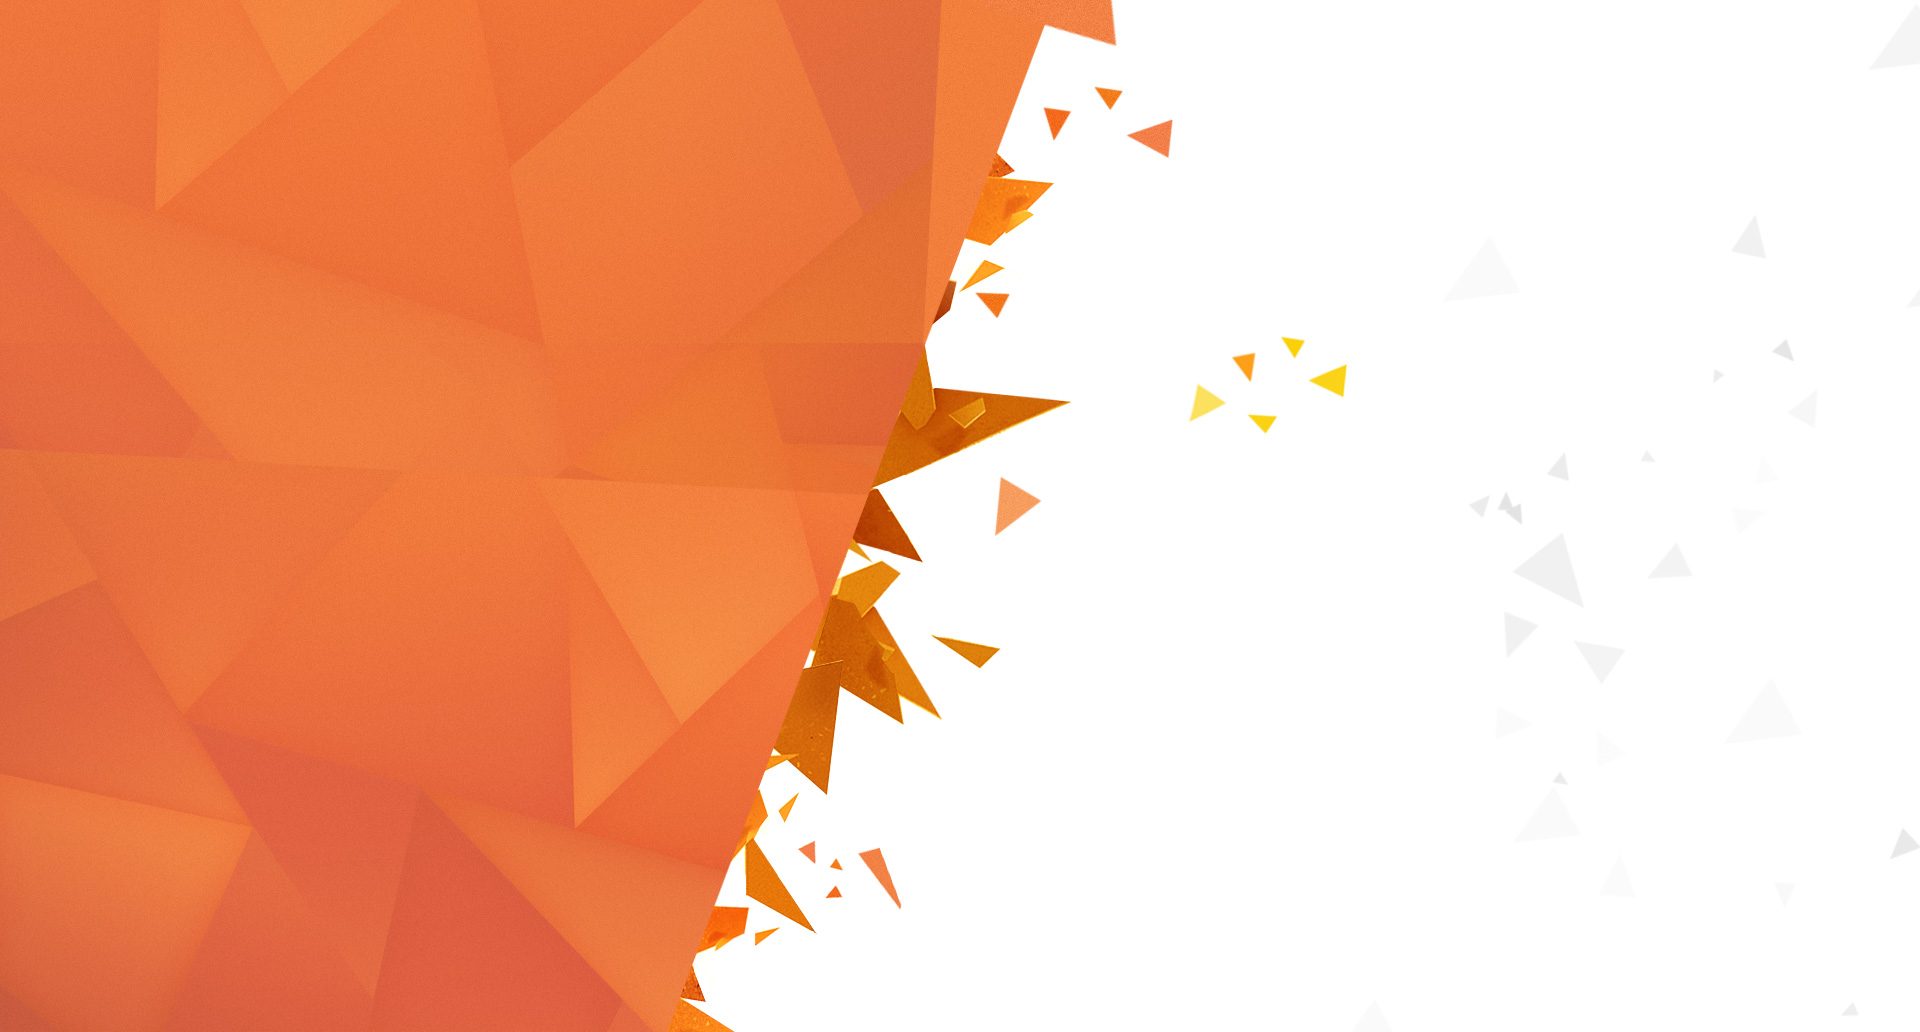
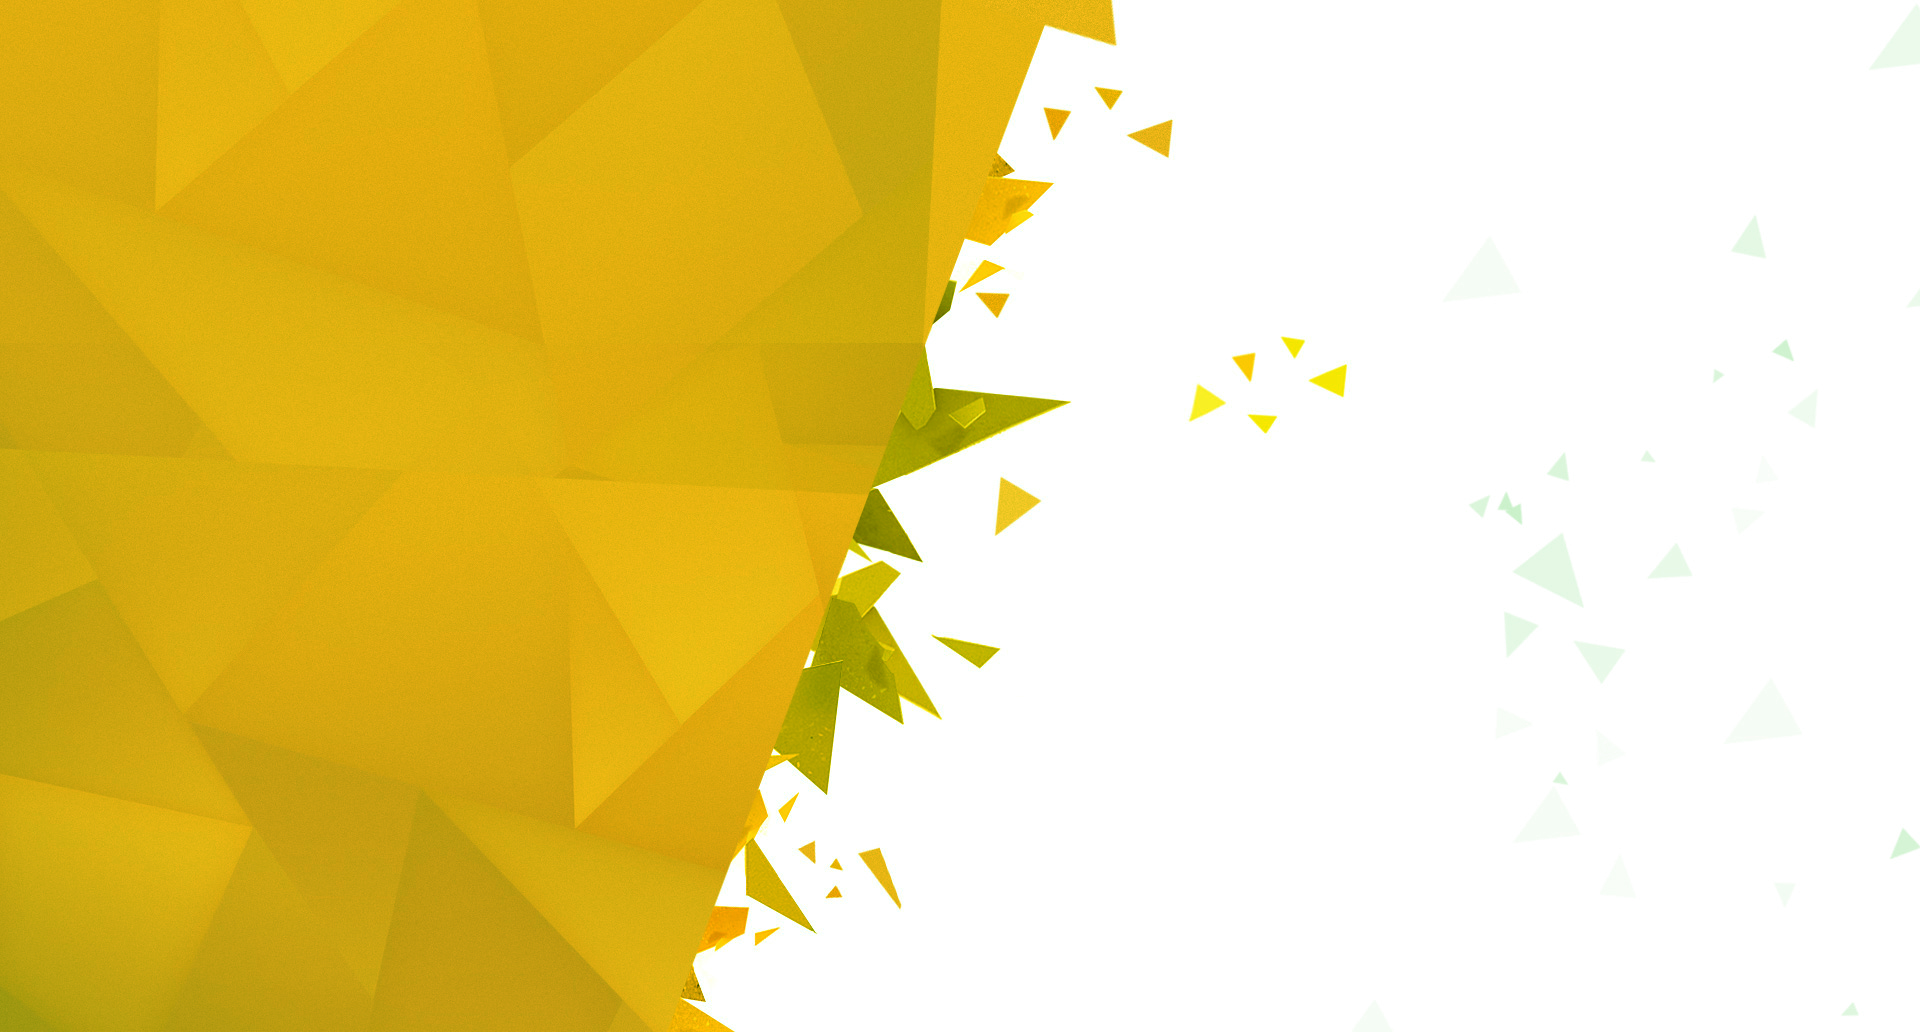
images replacements and overall changes

diff --git a/resources/views/frontend/header.blade.php b/resources/views/frontend/header.blade.php
@@ -5,7 +5,7 @@
     <meta charset=utf-8>
     <meta name=description content="">
     <meta name=viewport content="width=device-width, initial-scale=1">
-    <title>soccer club</title>
+    <title>DTV</title>
     <link rel="shortcut icon" href=favicon.ico>
     <link rel=stylesheet href=vendor.css>
     <link rel=stylesheet href=style.css>
@@ -22,9 +22,10 @@
             <div class=container>
                 <div class=row>
                     <ul>
-                        <li><a href="#">Signup/login</a></li>
-                        <li><a href=shopcart.html><i class="fa fa-shopping-cart"></i> <span>cart(<span
-                                class=cartitems>0</span>)</span></a></li>
+                        <li><a href="#">Inloggen</a></li>
+                        <li><a href="#">Registreren</a></li>
+
+                        
                     </ul>
                 </div>
             </div>
@@ -44,43 +45,19 @@
                                     <ul class="nav navbar-nav menu-bar">
                                         <li><a href=/ class=active>Home <span></span> <span></span>
                                             <span></span> <span></span></a></li>
-                                        <li><a href=about>about <span></span> <span></span> <span></span>
+                                        <li><a href=about>Over <span></span> <span></span> <span></span>
                                             <span></span></a></li>
-                                        <li><a>gallery <span></span> <span></span> <span></span> <span></span></a>
-                                            <ul class=sub-menu>
-                                                <li><a href=gallerypage01.html>masonry</a></li>
-                                                <li><a href=gallery02.html>gallery column two</a></li>
-                                                <li><a href=gallery03.html>gallery column 03</a></li>
-                                            </ul>
+                                        <li><a>Kantine <span></span> <span></span> <span></span> <span></span></a>
                                         </li>
-                                        <li><a href=blog.html>blog <span></span> <span></span> <span></span>
+                                        <li><a href=contact.html>Contact <span></span> <span></span> <span></span>
                                             <span></span></a></li>
-                                        <li><a href=bookTicket.html>book Tickets <span></span> <span></span>
-                                            <span></span> <span></span></a></li>
-                                        <li><a href=shop.html>shop <span></span> <span></span> <span></span>
-                                            <span></span></a></li>
-                                        <li><a href=contact.html>contact <span></span> <span></span> <span></span>
-                                            <span></span></a></li>
-                                        <li><a>error <span></span> <span></span> <span></span> <span></span></a>
-                                            <ul class=sub-menu>
-                                                <li><a href=400.html>400 page</a></li>
-                                                <li><a href=401.html>401 page</a></li>
-                                                <li><a href=403.html>403 page</a></li>
-                                                <li><a href=404.html>404 page</a></li>
-                                                <li><a href=500.html>500 page</a></li>
-                                                <li><a href=503.html>503 page</a></li>
-                                            </ul>
-                                        </li>
+
                                     </ul>
                                 </div>
                             </div>
                         </nav>
                     </div>
-                    <div class=social><a href=https://www.facebook.com/templatespoint.net class=facebook><i
-                            class="fa fa-facebook"></i></a> <a href=https://twitter.com/itobuztech class=twitter><i
-                            class="fa fa-twitter"></i></a> <a href=https://www.behance.net/ class=behance><i
-                            class="fa fa-behance"></i></a></div>
-                </div>
+                    <div
             </div>
         </div>
     </header>

diff --git a/resources/views/frontend/home.blade.php b/resources/views/frontend/home.blade.php
@@ -1,6 +1,6 @@
 @extends('frontend.layout')
 @section('header')
-    
+
 <div class=banner id=layerSlider style="width: 100%;">
     <div class=ls-slide data-ls="transition3d: 33,15; slidedelay: 8000 ; durationin:0;"><img
             src=images/banner/background01.jpg class=ls-bg alt="Slide background">
@@ -17,21 +17,11 @@
              data-ls="offsetxin: left; offsetxout:left; scalein:90; easingin: easeoutquart; durationin: 3000; delayin: 250;">
 
         <h2 class="ls-l bannertext layercontent03" data-ls="offsetxin:left; rotatexin:90 ; durationin: 3500;">
-            action</h2>
-
-        <h2 class="ls-l bannertext01 italic01 layercontent04"
-            data-ls="offsetxin:left; scalexin:9; durationin: 4000;">starts</h2><h4
-                class="ls-l bannertext02 layercontent05" data-ls="offsetxin:left; rotatexin:90 ; durationin: 4500;">
-            from</h4>
-
-        <h2 class="ls-l bannertext01 layercontent06" style="left: 87%; top:760px;"
-            data-ls="offsetxin:left; flipxin:90 ; durationin: 5000;">21<sup>st</sup></h2><h6
-                class="ls-l bannertext03 layercontent07" data-ls="offsetxin:left; flipxin:90 ; durationin: 6000;">
-            july , 2015</h6></div>
+            dtv</h2>
 </div>
 <div class=banner-text>
     <div class=container>
-        <div class=row>action start from 21<sup>st</sup> july , 2015.</div>
+        <div class=row>DTV<sup>ncdcdsc</sup> sdcdscds , dssdcds.</div>
     </div>
 </div>
 <section class="booking bg-smallwhite">
@@ -46,7 +36,7 @@
 @section('content')
     <section class=about>
         <div class=container>
-            <div class=row><h2 class=heading>About <span>scc</span></h2>
+            <div class=row><h2 class=heading>Over <span>DTV</span></h2>
 
                 <div class=about-wrap>
                     <div class="tab-content nav-content"><p role=tabpanel class="tab-pane fade" id=matches>Lorem ipsum
